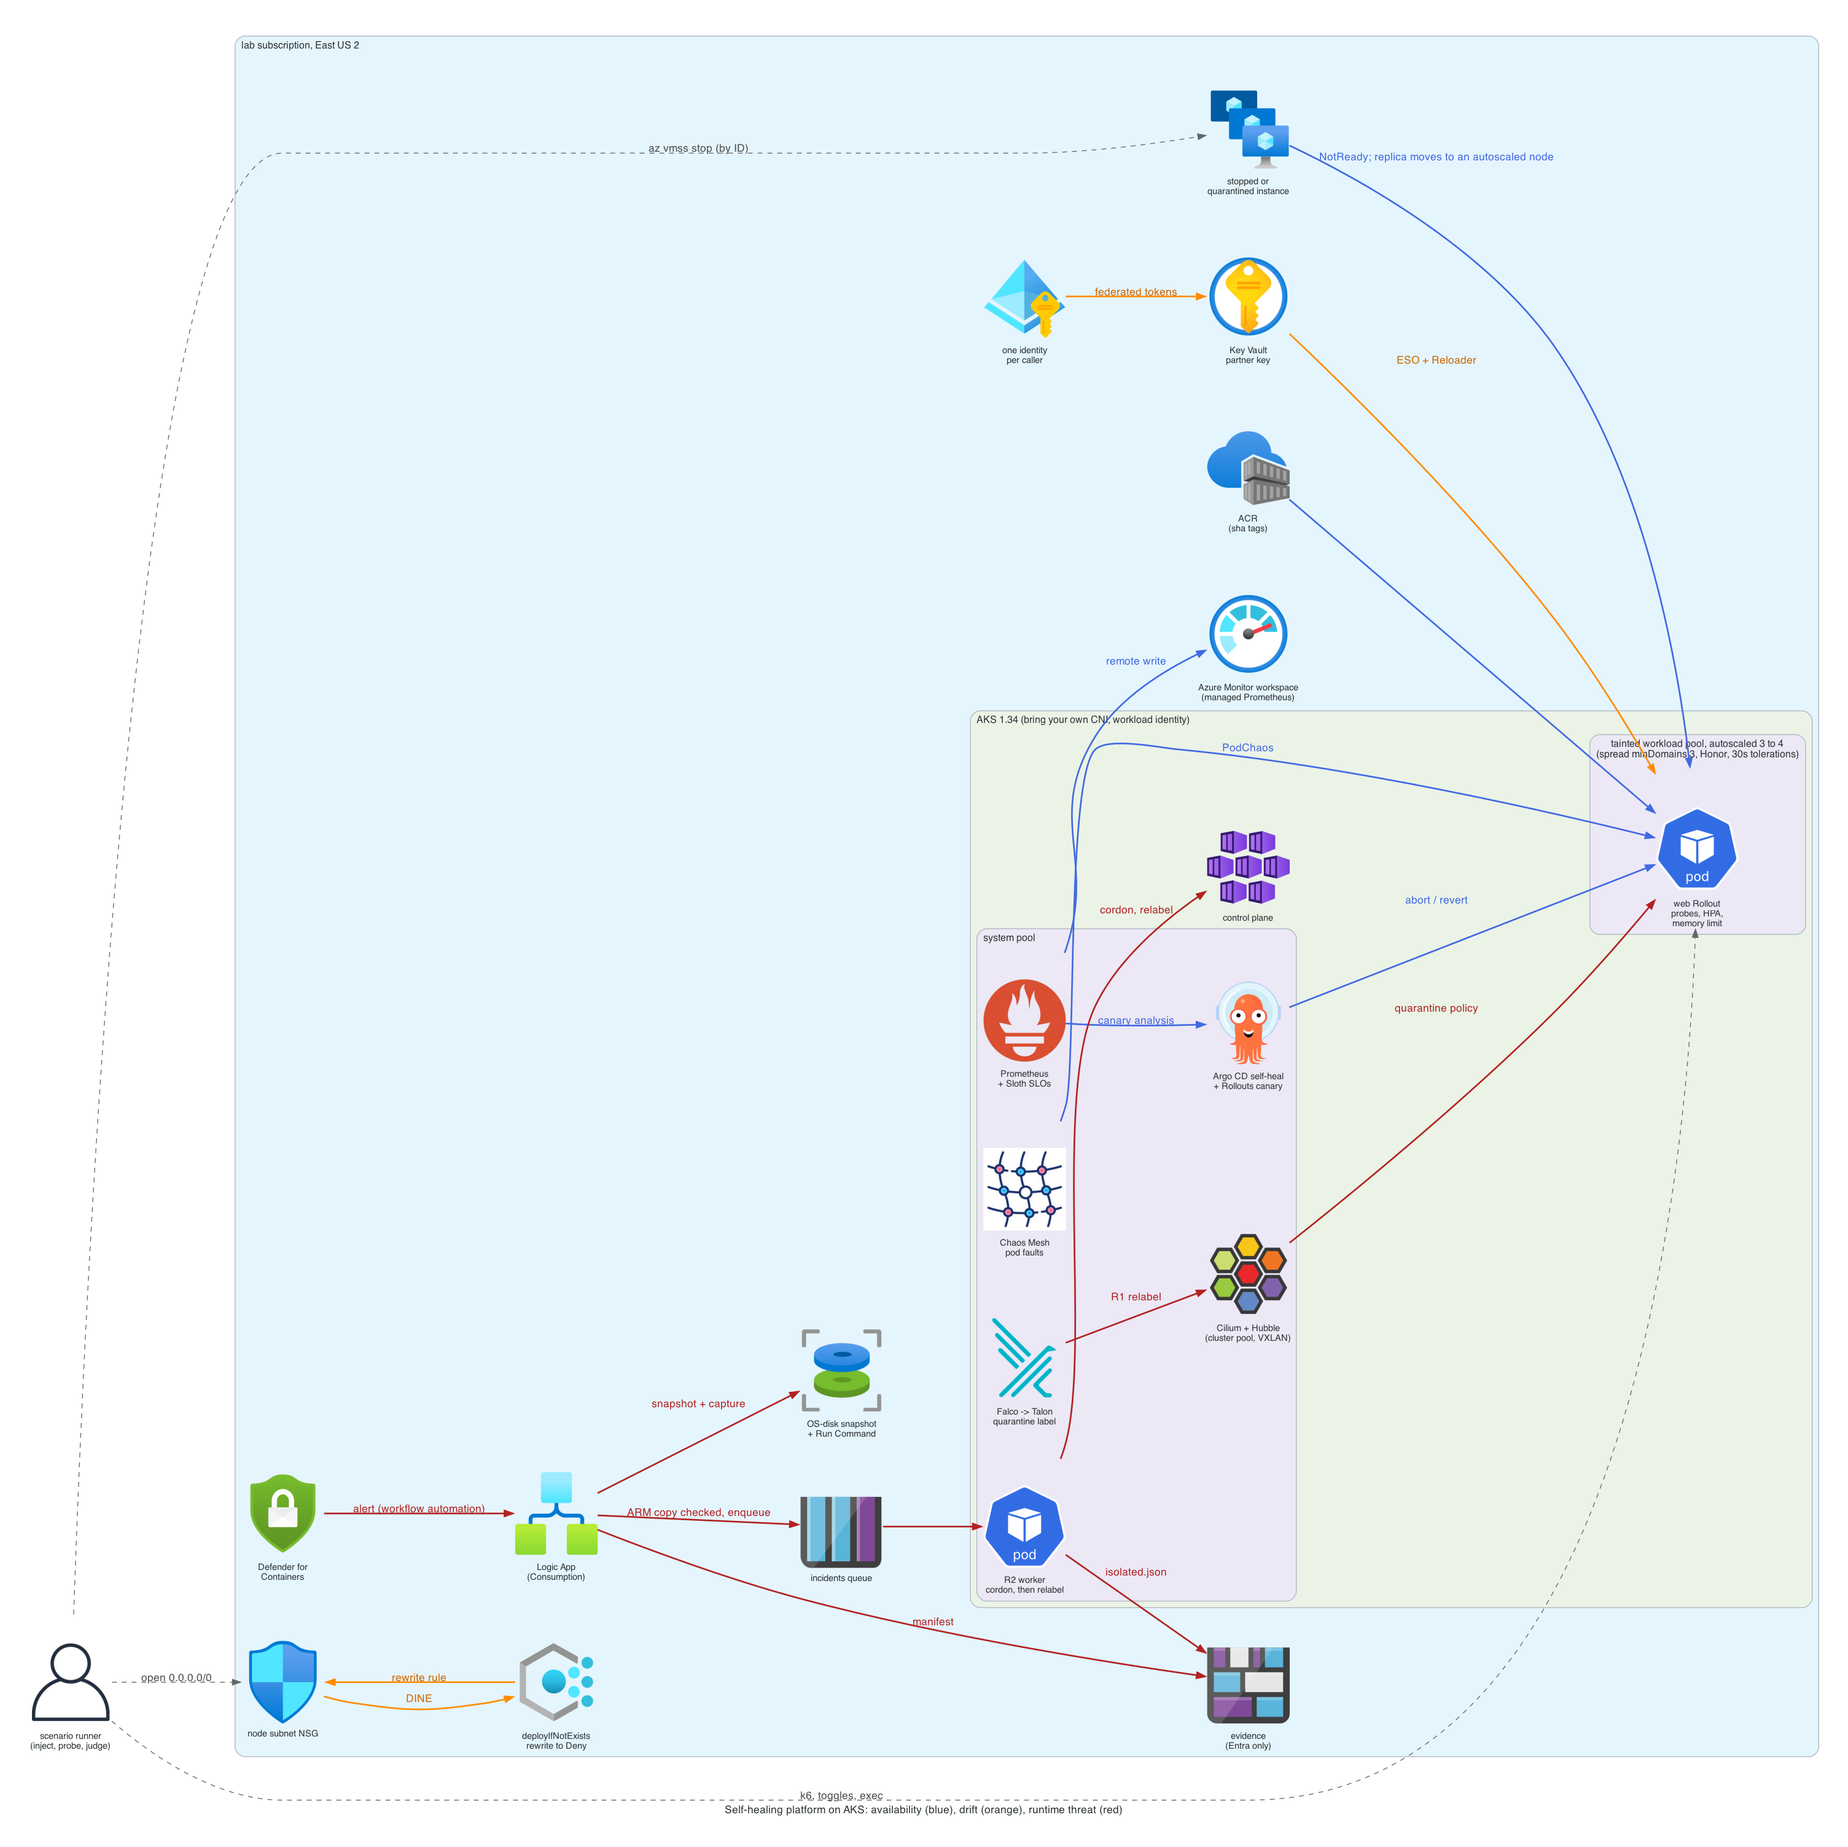
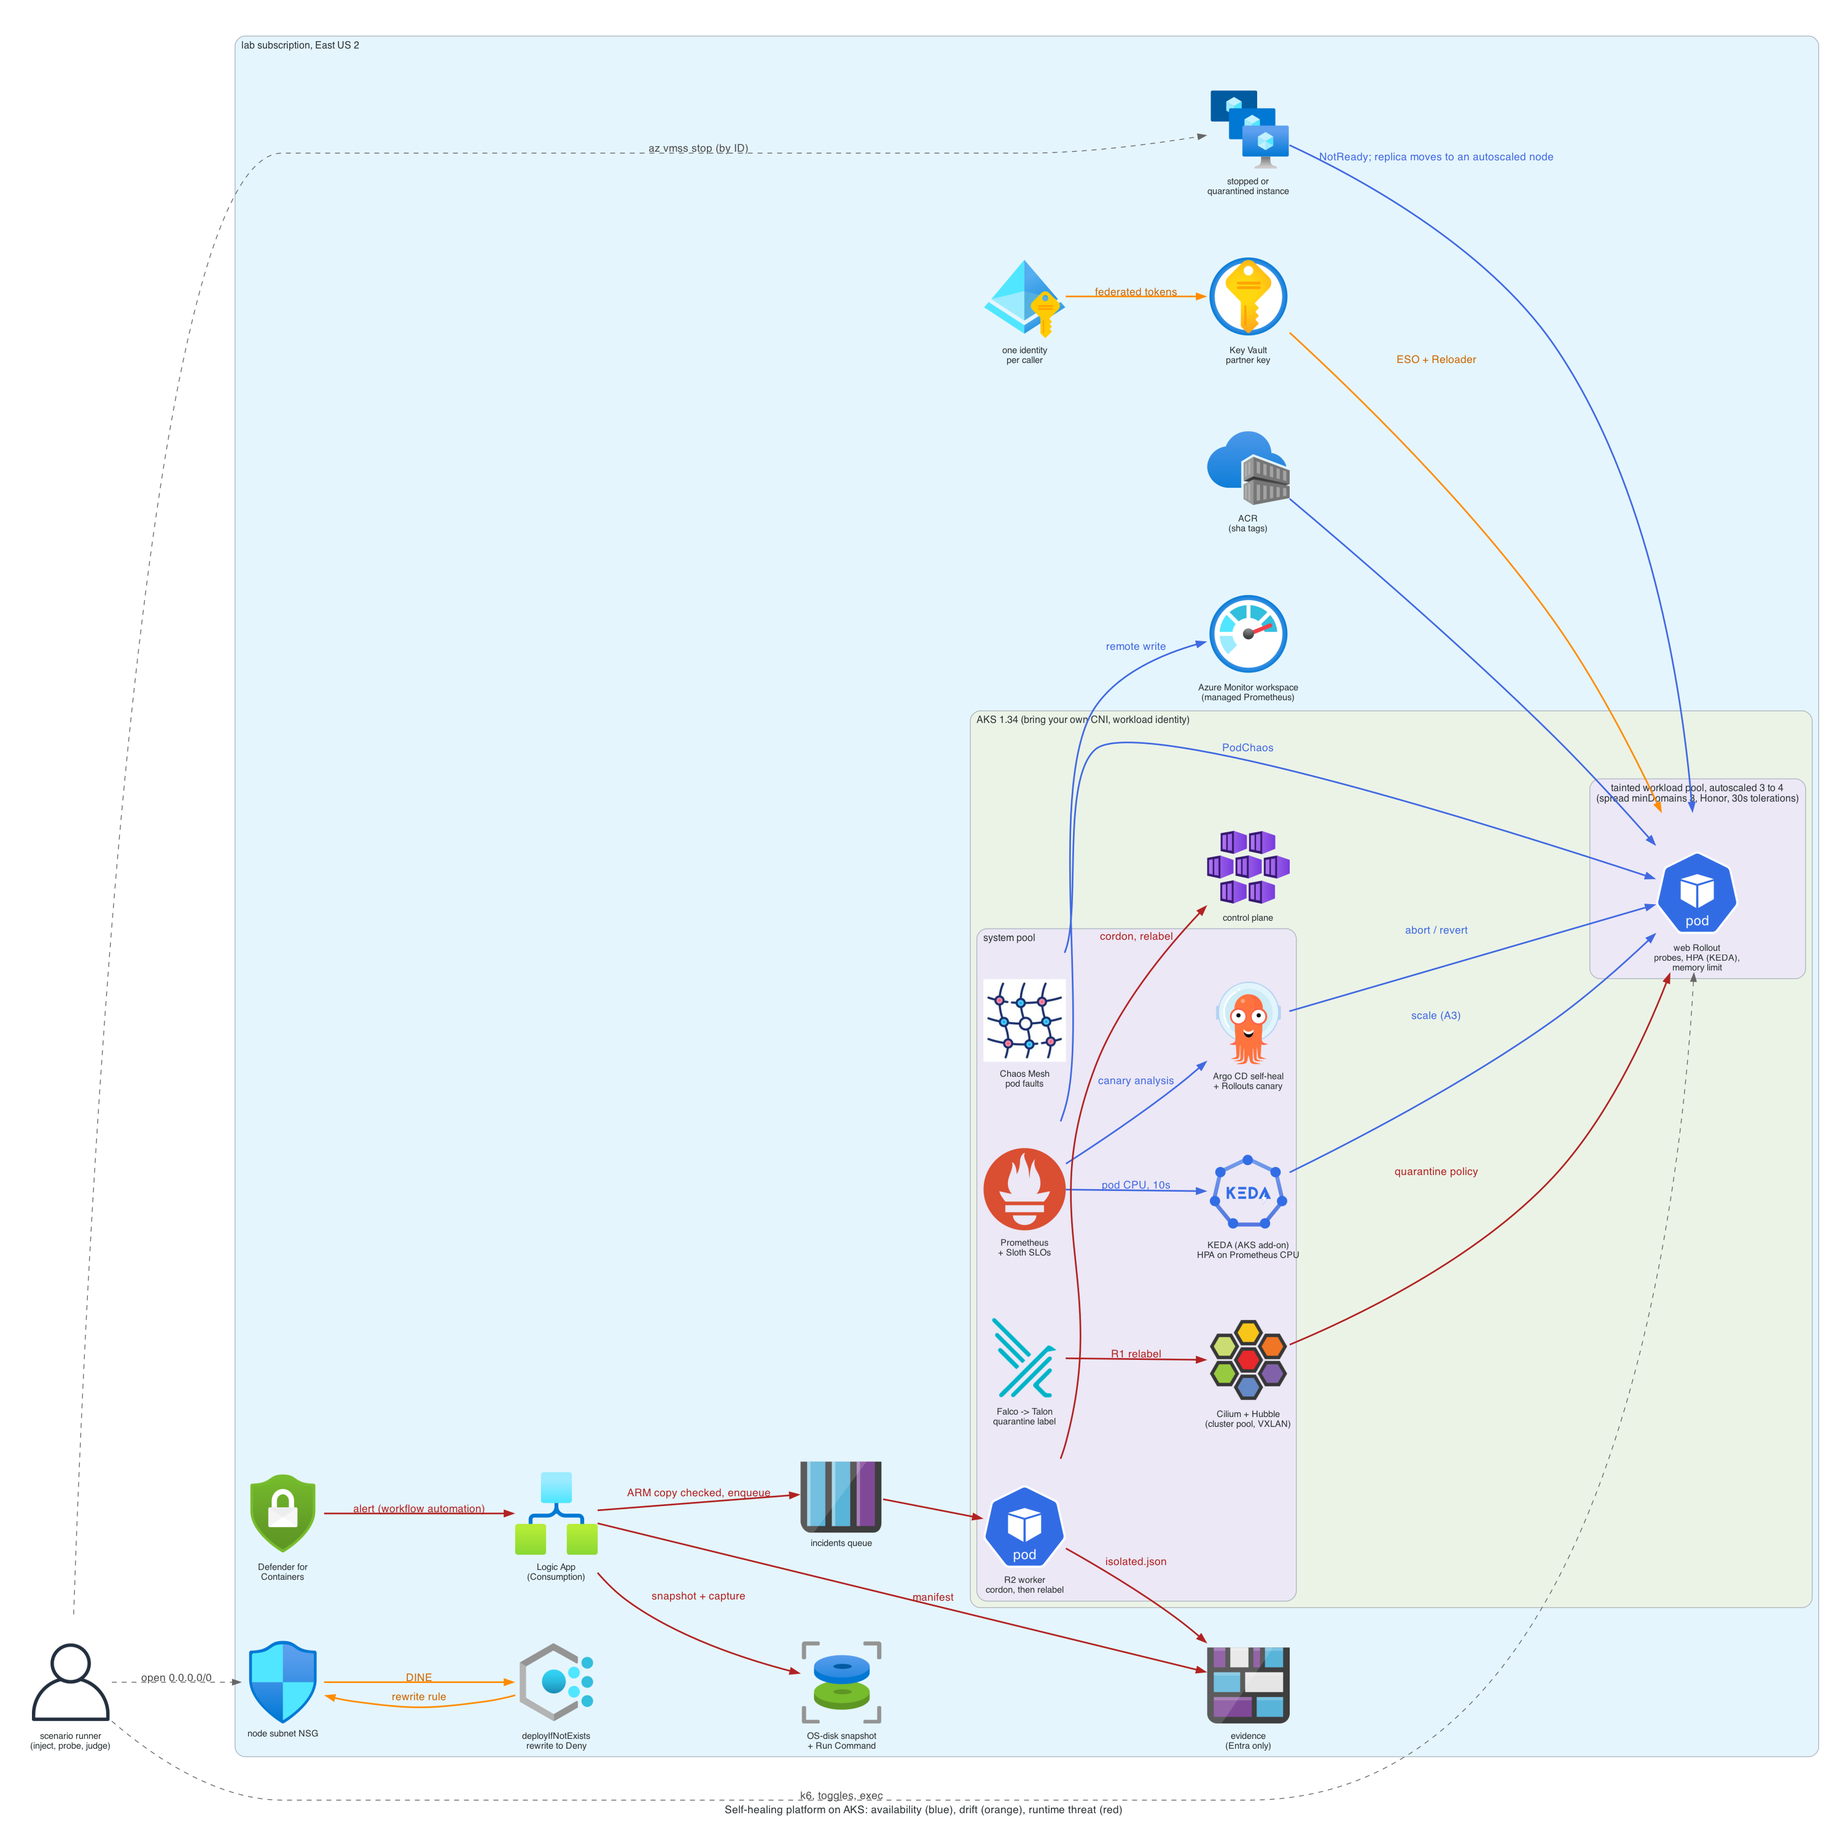
README: AKS phase 3 result, Azure diagram with KEDA, what broke on Azure, production scale

diff --git a/docs/diagram_azure.py b/docs/diagram_azure.py
@@ -1,7 +1,7 @@
 """Architecture diagram for the self-healing platform on AKS (phase 3).
 
 Renders docs/architecture-azure.png with official Azure and Kubernetes icons
-(mingrammer diagrams) and the official Cilium and Falco icons from the CNCF
+(mingrammer diagrams) and the official Cilium, Falco and KEDA icons from the CNCF
 artwork repo (docs/icons/). Run from the repo root:
 python3 docs/diagram_azure.py (needs graphviz `dot` on PATH).
 
@@ -30,6 +30,7 @@ from diagrams.onprem.monitoring import Prometheus
 HERE = os.path.dirname(os.path.abspath(__file__))
 CILIUM = os.path.join(HERE, "icons", "cilium.png")
 FALCO = os.path.join(HERE, "icons", "falco.png")
+KEDA = os.path.join(HERE, "icons", "keda.png")
 
 graph_attrs = {"fontsize": "13", "bgcolor": "white", "pad": "0.5", "nodesep": "0.55", "ranksep": "1.0", "splines": "spline"}
 node_attrs = {"fontsize": "11"}
@@ -53,13 +54,14 @@ with Diagram(
         with Cluster("AKS 1.34 (bring your own CNI, workload identity)"):
             aks = KubernetesServices("control plane")
             with Cluster("tainted workload pool, autoscaled 3 to 4\n(spread minDomains 3, Honor, 30s tolerations)"):
-                web = Pod("web Rollout\nprobes, HPA,\nmemory limit")
+                web = Pod("web Rollout\nprobes, HPA (KEDA),\nmemory limit")
             with Cluster("system pool"):
                 cilium = Custom("Cilium + Hubble\n(cluster pool, VXLAN)", CILIUM)
                 falco = Custom("Falco -> Talon\nquarantine label", FALCO)
                 argo = Argocd("Argo CD self-heal\n+ Rollouts canary")
                 prom = Prometheus("Prometheus\n+ Sloth SLOs")
                 chaos = ChaosMesh("Chaos Mesh\npod faults")
+                keda = Custom("KEDA (AKS add-on)\nHPA on Prometheus CPU", KEDA)
                 worker = Pod("R2 worker\ncordon, then relabel")
 
         vmss = VMScaleSet("stopped or\nquarantined instance")
@@ -83,6 +85,8 @@ with Diagram(
     prom >> Edge(label="canary analysis", **avail) >> argo
     argo >> Edge(label="abort / revert", **avail) >> web
     prom >> Edge(label="remote write", **avail) >> amw
+    prom >> Edge(label="pod CPU, 10s", **avail) >> keda
+    keda >> Edge(label="scale (A3)", **avail) >> web
     acr >> Edge(**avail) >> web
     vmss >> Edge(label="NotReady; replica moves to an autoscaled node", **avail) >> web
 

diff --git a/README.md b/README.md
@@ -5,10 +5,11 @@ threat, proven with before/after experiments. The third lab in the arc after
 the EKS Attack Range (gain access, detect) and the Kubernetes Network
 Segmentation Lab (contain): this one responds and recovers.
 
-**Status:** phase 1 (portable core on kind, zero cloud spend) and phase 2 (the
-AWS module, `infra/aws/`, every row on EKS) have both run live. On EKS 11 of 13
-hardened rows healed, one missed and one was inconclusive (see below); the
-cluster was then destroyed. Azure and GCP come after.
+**Status:** three phases have run live and been destroyed: the portable core
+on kind (zero cloud spend), the AWS module on EKS (11 of 13 hardened rows
+healed, one missed, one inconclusive) and the Azure module on AKS (9 of 11
+healed, A3 missed by 20 ms, R2 blocked because Defender never raised the
+alert). GCP comes next.
 
 ![Self-healing platform on EKS](docs/architecture.png)
 
@@ -19,6 +20,15 @@ red is runtime threat response (Falco to a Cilium quarantine, GuardDuty to a
 Step Functions responder that cordons, isolates and captures evidence). The
 dashed grey edges are the scenario runner injecting faults from outside.
 Source: `docs/diagram.py`.*
+
+![Self-healing platform on AKS](docs/architecture-azure.png)
+
+*The AKS module, same colours. Availability adds a scale set instance stop
+and KEDA scaling the HPA from Prometheus; drift adds Key Vault through
+workload identity and an Azure Policy deployIfNotExists that rewrites an open
+NSG rule to Deny; threat response runs Defender for Containers to a Logic App
+that checks ARM's own copy of the alert before an in-cluster worker cordons
+and relabels. Source: `docs/diagram_azure.py`.*
 
 ## The experiment
 
@@ -59,6 +69,17 @@ counts as healed only if the same run's baseline showed impact; a row that
 cannot be measured is an error, never a skip (`scenarios/judge.py`, unit
 tested by `make test`).
 
+On AKS (phase 3) eleven rows run: the eight core rows, A4, S4 and R2, each
+rebuilt on Azure's own services ([ADR-0008](docs/adr/0008-azure-module-design.md),
+facts in [ADR-0007](docs/adr/0007-azure-facts-before-the-module.md), session in
+[docs/runbook-azure.md](docs/runbook-azure.md)):
+
+| Row | Fault | Injected with | Healing control |
+|---|---|---|---|
+| A4 | The workload node hosting the most web pods stops | `az vmss stop` of one scale set instance by ID | cluster autoscaler, PDB, topology spread with `minDomains`, 30s not-ready tolerations |
+| S4 | Node subnet NSG opened to 0.0.0.0/0 | an inbound Allow rule | Azure Policy deployIfNotExists rewrites the rule to Deny |
+| R2 | Runtime threat in a web pod | Microsoft's threat-intelligence test request | Defender for Containers -> workflow automation -> Logic App (checks ARM's copy) -> queue -> worker: cordon, relabel, OS-disk snapshot, Run Command capture |
+
 ## Run it
 
 ```
@@ -70,13 +91,16 @@ make down
 Needs docker (about 4 GB free for the cluster), kind, kubectl, helm, cilium,
 hubble, jq, openssl 3.4+ and python3. The lab uses its own kubeconfig
 (`.kube/config`), so it never touches other clusters on the machine.
+The cloud modules run from saved plans in one bounded session each:
+[docs/runbook-aws.md](docs/runbook-aws.md) and
+[docs/runbook-azure.md](docs/runbook-azure.md).
 
 ## Stack (pinned in the Makefile)
 
 Cilium 1.20.4, Argo CD v3.5.7, Argo Rollouts v1.10.1, External Secrets
 v2.14.0, Reloader v1.4.23, cert-manager v1.21.3, Falco 0.45.2 + Falcosidekick
 2.35.1 + Falco Talon 0.3.0, kube-prometheus-stack 92.17.1, Sloth v0.13.0,
-Chaos Mesh 2.8.7, k6 v2.3.0. CI: platform-guardrails v1.10.0.
+Chaos Mesh 2.8.7, k6 v2.3.0; on AKS, the managed KEDA add-on. CI: platform-guardrails v1.10.0.
 
 ## Phase 1 result (kind)
 
@@ -122,7 +146,81 @@ node, 56% errors). R1 met 30s once and missed once on EKS: Talon labels the pod
 within 2s, and the rest is Cilium applying the quarantine identity plus the
 runner proving unreachability through `kubectl exec` over the internet.
 
+## Phase 3 result (AKS)
+
+One bounded live session on 2026-11-05 (AKS 1.34, three Standard_D2s_v3
+system nodes, a tainted Standard_D2s_v6 workload pool autoscaled 3 to 4,
+Cilium on bring-your-own CNI, about $8 for roughly nine and a half hours up).
+Reference evidence: `evidence/aks-run1` (every row), `evidence/aks-run1-rows`
+(S3, S4, R1, R2 after a runner fix), `evidence/aks-run1-s4` and
+`evidence/aks-run1-a3` (after the fixes below). No threshold was changed.
+
+| Row | Hardened result on AKS | Run |
+|---|---|---|
+| A1 | healed: 0.00% errors after detection, hung pod serving again at 31s | aks-run1 |
+| A2 | healed: canary aborted at 80s, only v1 after, 0.00% | aks-run1 |
+| A3 | **miss**: sustained-spike p95 **320 ms** (bar 300), 0.00% errors, HPA 3 to 7 through KEDA | aks-run1-a3 |
+| A4 | healed: node NotReady at 59s, 0.00% errors from then, every replica serving at 172s on a new node; the same run's baseline hit 100% errors | aks-run1 |
+| A5 | healed: OOMKilled at 9s, serving at 12s, paged at 21s | aks-run1 |
+| S1 | healed: 0 failed of 450, pods on the new key at 33s | aks-run1 |
+| S2 | healed: 0 TLS errors of 193, renewed certificate served at 79s | aks-run1 |
+| S3 | healed: policy restored at 2s, hand edit reverted at 10s | aks-run1-rows |
+| S4 | healed: the policy's own deployment rewrote the rule to Deny at 121s (bar 1200) | aks-run1-s4 |
+| R1 | healed: detected at 1s, isolated at 8s, evidence at 24s, 0.00% errors | aks-run1-rows |
+| R2 | **blocked**: no Defender alert naming the pod in 3600s, three times, so the response never had anything to act on | aks-run1-rows |
+
+A4 is conclusive on AKS where it was not on EKS: the baseline packs every
+replica onto one node by design, so the same run shows both the failure and
+the heal. A3 got from 821 ms to 320 ms once the HPA stopped waiting on
+metrics-server (below); the rest is the shared CPU target, and lowering it on
+AKS alone would be tuning a control on the target that missed. R2's
+responder is built and its parts passed their live checks, but the row is
+unproven on Azure until Defender fires.
+
 ## What broke (and what it taught)
+
+### On Azure (phase 3)
+
+- **The policy fired and its template failed.** Azure Policy started the S4
+  remediation 100 seconds after the rule opened, and ARM rejected the
+  deployment: a parameter typed array received a string. The rule has one
+  port, so its port list is empty, and Policy's `field()` hands an empty
+  property over as a string, not null, so `coalesce()` never applied. A
+  deployment that fails validation never appears in the resource group, so
+  the row only saw "no deployment"; the Activity Log's
+  `deployIfNotExists/action` entry held the reason. Every value now crosses as
+  a string and the template decides the defaults, checked with `what-if` for
+  every shape before the rerun healed at 121s.
+- **The managed metrics-server is a 60s ceiling.** AKS runs its own
+  metrics-server without `--metric-resolution`, so the upstream 60s default
+  (kind and EKS run 15s), and it cannot be replaced. The HPA scaled at 69s
+  against EKS's 32s and the sustain window opened on a backlog: p95 821 ms.
+  KEDA, the managed add-on, now drives the same HPA from Prometheus's 10s
+  cAdvisor scrape: scaled at 42s, p95 320 ms.
+- **Defender's runtime detection never fired.** Microsoft's own
+  threat-intelligence test request (the one in their attack simulation) ran
+  three times from a web pod: no alert in an hour each time, while a
+  control-plane alert did arrive. The managed sensor was chart 0.8.61 with its
+  antimalware collector off although the plan and the cluster profile both
+  said enabled, and Microsoft's antimalware detection needs 0.10.x. R2 is
+  recorded as blocked, not as a heal or a miss.
+- **The autoscaler's cleanup looked like a quarantine.** After A4 the runner
+  started the stopped instance again, the autoscaler had already added a
+  replacement and removed the now-empty node, and the steady-state check read
+  its cordon as an R2 leftover and asked AKS to delete a machine that was
+  gone. Four rows errored in 20 seconds. Nodes carrying
+  `ToBeDeletedByClusterAutoscaler` are now left to the autoscaler.
+- **A wildcard that stops at a dot.** The R2 worker's egress policy allowed
+  `*.cluster.local`, but Cilium's `*` matches one label, and with `ndots:5`
+  every lookup first walks the search domains, so DNS for the queue failed
+  with `EAI_AGAIN`. `**.` matches across labels.
+- **Quota is a design input.** Legacy DSv3 increases are frozen, D2s_v5 was
+  not offered to the subscription and a Dsv6 increase to 16 was refused; the
+  regional total alone was raised. System and workload pools now use
+  different families so each fits its own quota.
+- **The same rule name brings back old records.** The runner reported S4
+  non-compliant at 3s by matching the previous run's compliance record for
+  the same rule. It now counts only records written after T0.
 
 ### On AWS (phase 2)
 
@@ -197,3 +295,23 @@ runner proving unreachability through `kubectl exec` over the internet.
   rest p95 is 130-230 ms. A3 keeps its 300 ms bar everywhere: on kind it is
   recorded as errors healed, latency not reachable on one shared node, and
   the latency claim is proven on EKS ([ADR-0003](docs/adr/0003-per-target-thresholds.md)).
+
+## At production scale
+
+- **Prevent first, repair second.** S4 proves the detective layer; production
+  puts a Deny policy (or an SCP and a permissions boundary on AWS) in front
+  of it, so the repair only catches what prevention misses.
+- **Pin the runtime sensor.** Install the Defender sensor (or GuardDuty's
+  agent) at a pinned version, and alert on the sensor's own heartbeat and on
+  a scheduled test detection, so a silent detector is an incident, not a
+  surprise during one.
+- **Size the autoscaler from a load test, not a default.** A3 showed the
+  signal's freshness and the target utilization both decide tail latency;
+  production sets the target per service from its latency objective and
+  keeps a scale-up path that does not wait on a 60s metric.
+- **Spread across zones and keep budgets explicit.** Topology spread with
+  `minDomains`, PDBs and node disruption budgets per pool, with the
+  replacement capacity sized so one zone loss stays under the error budget.
+- **Evidence goes to an account the cluster cannot touch.** The labs write
+  to a bucket or container in the lab; production writes to a separate
+  security account or subscription with object lock or immutability.

diff --git a/evidence/README.md b/evidence/README.md
@@ -38,3 +38,24 @@ Not reference evidence, kept local: `eks-run1`, `eks-run1-s1b` and
 `eks-run1-rerun` (overlapping runners), `eks-run2-rerun` (the operator's
 laptop slept and froze the runner). ADR-0003 lists every fix with the run that
 prompted it.
+
+## Reference runs (AKS, phase 3)
+
+One live session, 2026-11-05. The subscription, the tenant, every other GUID
+and the operator's IP are replaced by `scripts/redact-evidence.py --cloud
+azure` before commit.
+
+- `aks-run1`: every row, both profiles. Every baseline showed impact except
+  R2, whose trigger raised no Defender alert (an error, not an impact).
+  Hardened A1, A2, A4, A5, S1 and S2 healed; A3 missed (p95 821 ms); S3, S4,
+  R1 and R2 errored because the steady-state check took a cluster autoscaler
+  scale-down for an R2 leftover (fixed afterwards, ADR-0008).
+- `aks-run1-rows`: S3, S4, R1 and R2 after that fix. Hardened S3 and R1
+  healed (R1 isolated at 8s); S4 missed (the policy's remediation template
+  failed validation); R2 errored again (no Defender alert in 3600s).
+- `aks-run1-s4`: S4 after the template fix. Healed: the rule was rewritten to
+  Deny at 121s by the policy's own deployment. Its "non-compliant reported
+  3s" matched the previous run's compliance record; the row now counts only
+  records after T0 (ADR-0008 has the real times).
+- `aks-run1-a3`: A3 with KEDA scaling the HPA from Prometheus. Missed: p95
+  320 ms against 300, 0.00% errors, HPA 3 to 7, scaled at 41.5s.
